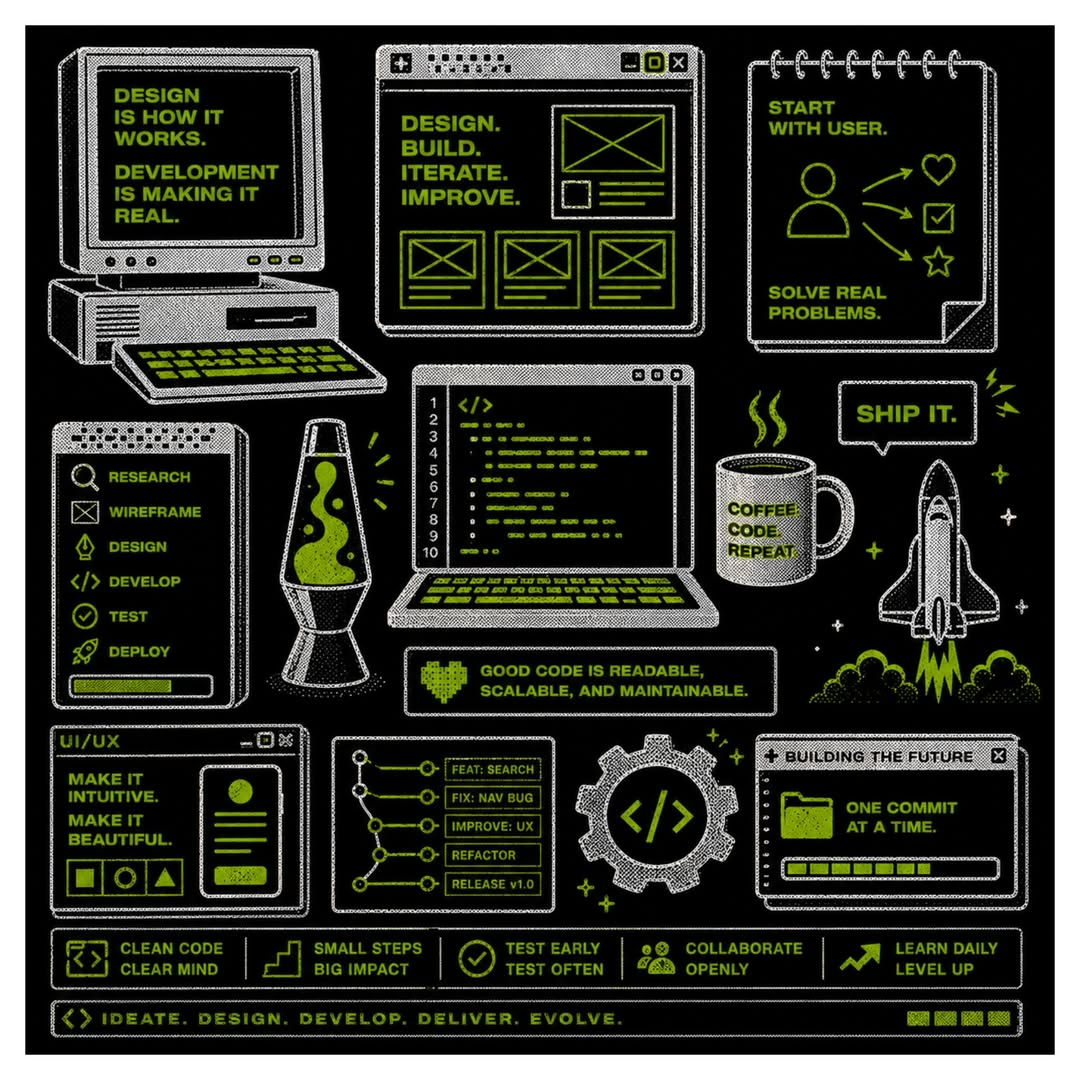
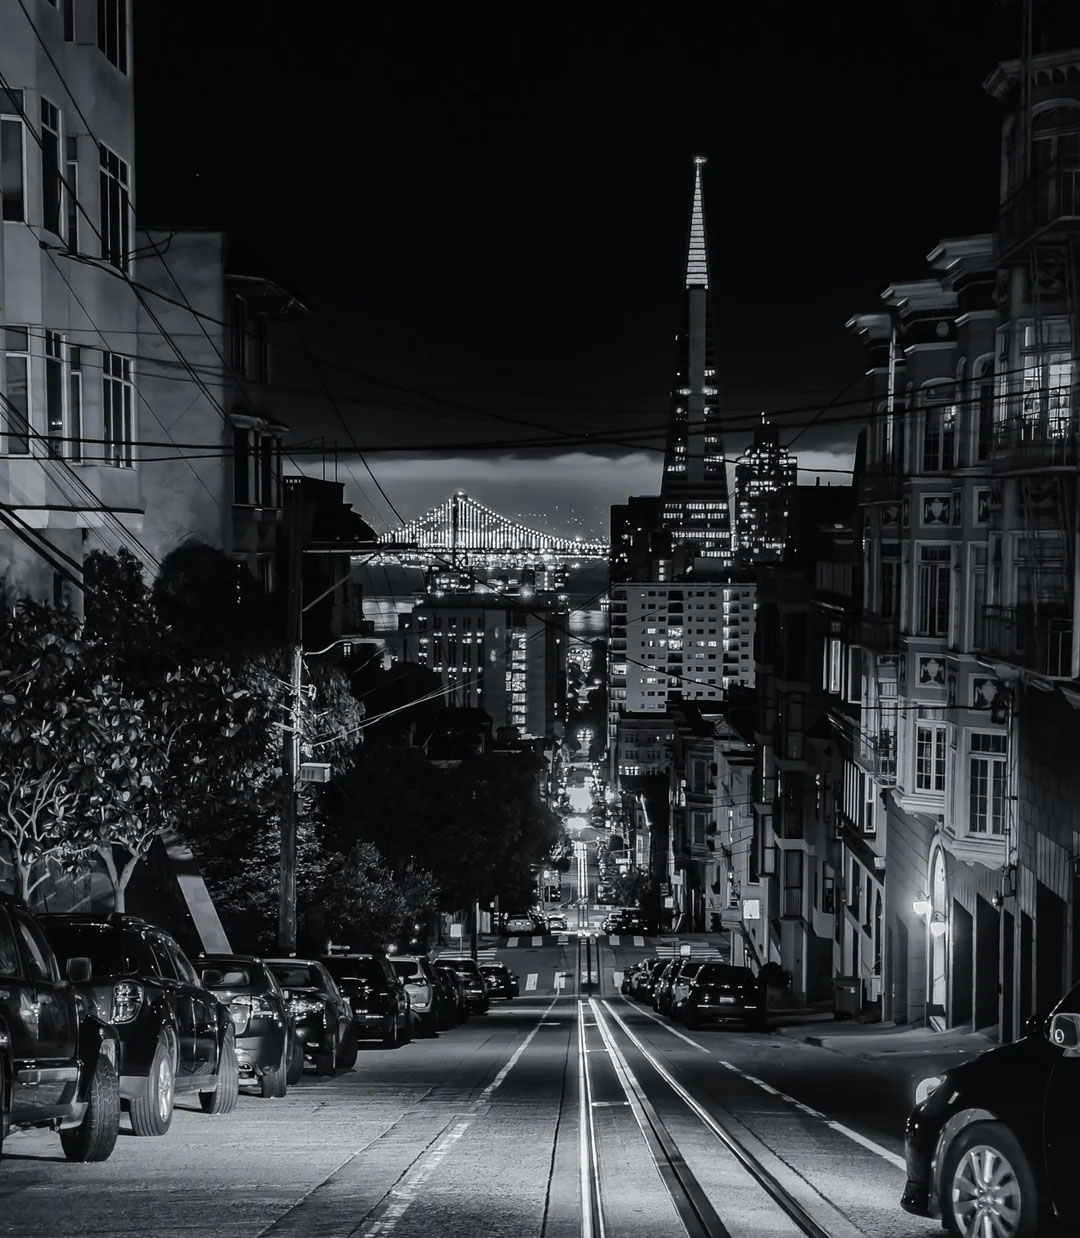
Update homepage nav links and about image

diff --git a/active/index.html b/active/index.html
@@ -1962,23 +1962,23 @@ footer {
 
 <header class='nav' data-od-id='nav'>
   <div class='container nav-inner'>
-    <a href='#top' class='brand'>
+    <a href='/index.html' class='brand'>
       <span class='brand-mark'>Ø</span>
       <span>Curiosity. Craft. Connection.</span>
       <span class='brand-meta'><b>Studio Nº 01</b>San Francisco / Open / Earth</span>
     </a>
     <nav>
       <ul class='nav-links'>
-          <li><a href='#' target='_blank' rel='noreferrer noopener'>Skills<span class='num'>31</span></a></li>
-          <li><a href='#' target='_blank' rel='noreferrer noopener'>Systems<span class='num'>72</span></a></li>
-          <li><a href='#agents'>Agents<span class='num'>12</span></a></li>
+          <li><a href='/blog/' target='_blank' rel='noreferrer noopener'>On theDaily blog<span class='num'>31</span></a></li>
+          <li><a href='/initializing-updates/' target='_blank' rel='noreferrer noopener'>Intializing / Updates<span class='num'>72</span></a></li>
+          <li><a href='/portfolio-work/'>Portfolio work<span class='num'>12</span></a></li>
           <li><a href='#labs'>Labs<span class='num'>05</span></a></li>
           <li><a href='#contact'>Contact</a></li>
       </ul>
     </nav>
     <div class='nav-side'>
-      <a class='nav-cta ghost' href='../index.html'>Home</a>
       <a class='nav-cta' href='/my-services/'>My services</a>
+      <a class='nav-cta ghost' href='../index.html'>Sign In</a>
       <span class='status-dot' aria-hidden='true'></span>
     </div>
   </div>